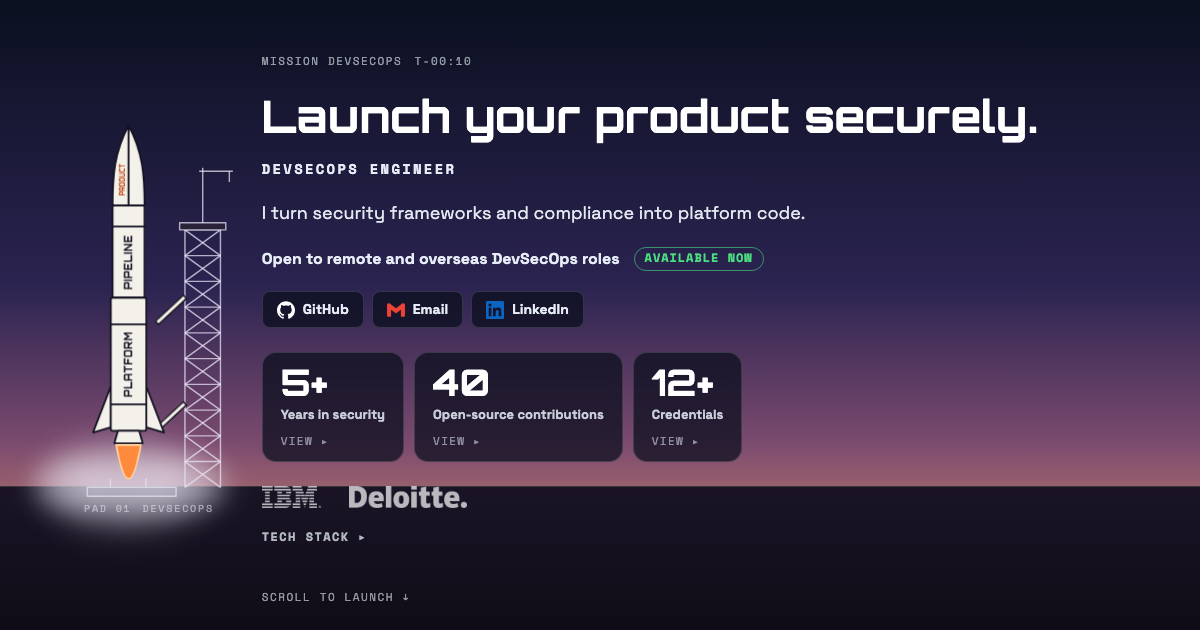
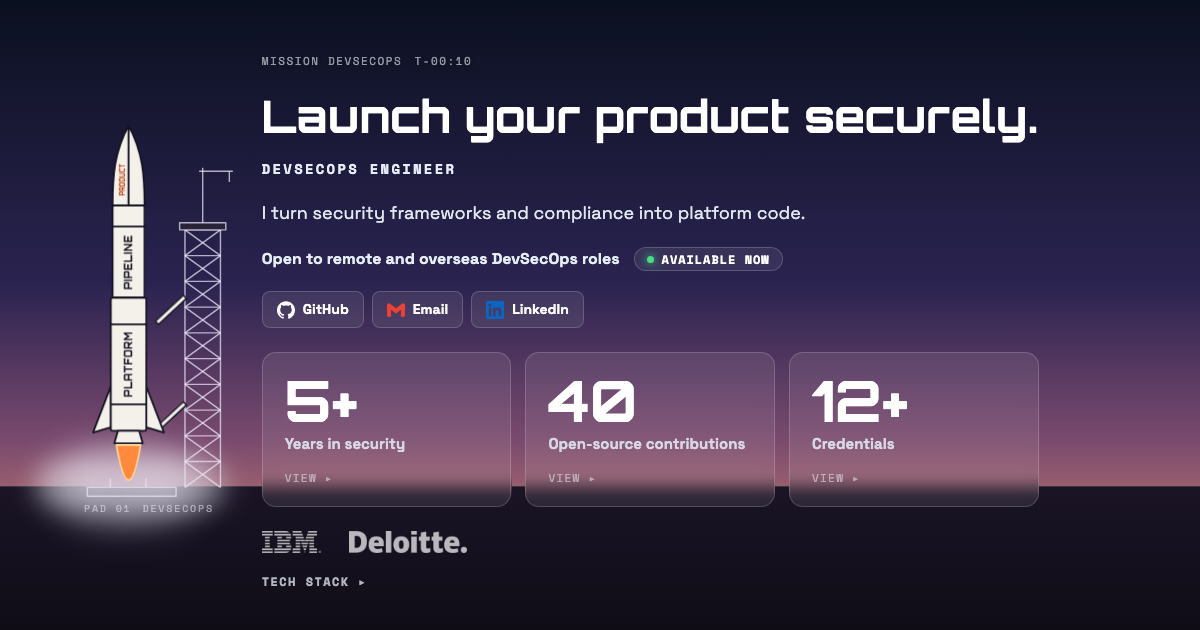
style(launch): hero cards span the headline, frosted-glass look
The stat cards go back to three equal columns ending under the
headline's period. Stat cards and contact buttons become frosted glass
so the dusk sky shows through, and 'Available now' is a glass pill with
a small green dot. og:image retaken.

Claude-Session: https://claude.ai/code/session_011tCtx6HPPMVjdVwgWrdedY

diff --git a/src/styles/launch.css b/src/styles/launch.css
@@ -592,14 +592,28 @@ html[data-bright] .meter a::before {
   color: #e6edf7;
   font-weight: 600;
 }
+/* frosted-glass pill with a small green "online" dot */
 .hero-available {
-  padding: 1px 10px;
-  border: 1px solid rgb(74 222 128 / 0.6);
+  display: inline-flex;
+  align-items: center;
+  gap: 8px;
+  padding: 2px 12px;
+  border: 1px solid rgb(255 255 255 / 0.18);
   border-radius: 999px;
-  color: #4ade80;
+  background: rgb(255 255 255 / 0.08);
+  color: #fff;
   font: 700 12px var(--font-space-mono), monospace;
   letter-spacing: 0.08em;
   text-transform: uppercase;
+  backdrop-filter: blur(8px);
+}
+.hero-available::before {
+  content: "";
+  width: 7px;
+  height: 7px;
+  border-radius: 50%;
+  background: #4ade80;
+  box-shadow: 0 0 8px #4ade80;
 }
 .hero-contact {
   display: flex;
@@ -611,10 +625,10 @@ html[data-bright] .meter a::before {
   align-items: center;
   gap: 8px;
   padding: 7px 14px;
-  border: 1px solid var(--panel-line);
+  border: 1px solid rgb(255 255 255 / 0.18);
   border-radius: 8px;
-  background: var(--panel);
-  color: #e6edf7;
+  background: rgb(255 255 255 / 0.08);
+  color: #fff;
   backdrop-filter: blur(8px);
   font-size: 14px;
   font-weight: 600;
@@ -623,42 +637,31 @@ html[data-bright] .meter a::before {
 }
 .hero-contact-link:hover {
   transform: translateY(-1px);
-  border-color: rgb(255 255 255 / 0.35);
+  border-color: rgb(255 255 255 / 0.4);
+  background: rgb(255 255 255 / 0.12);
 }
 .hero-contact-icon {
   width: 18px;
   height: 18px;
 }
-/* compact: each card only as wide as its number and label */
+/* three equal cards spanning the headline's width */
 .stat-cards.hero-stats {
-  display: flex;
-  flex-wrap: wrap;
-  gap: 10px;
+  grid-template-columns: repeat(3, minmax(0, 1fr));
+  max-width: var(--hero-w);
   margin-top: 4px;
 }
+/* On the dusk sky the hero cards and buttons are frosted glass, so the
+   gradient shows through. */
 .hero-stats .stat-card {
-  padding: 12px 18px;
-}
-.hero-stats .stat-num {
-  font-size: 36px;
-}
-.hero-stats .stat-label {
-  font-size: 13px;
-}
-.hero-stats .stat-open {
-  margin-top: 4px;
-}
-/* On the night sky the hero cards and buttons use the same dark panel as
-   the stage cards, instead of the summary's light cards. */
-.hero-stats .stat-card {
-  border-color: var(--panel-line);
-  background: var(--panel);
+  border-color: rgb(255 255 255 / 0.18);
+  background: rgb(255 255 255 / 0.08);
   color: #fff;
   backdrop-filter: blur(8px);
 }
 .hero-stats .stat-card:hover {
-  border-color: rgb(255 255 255 / 0.35);
-  box-shadow: 0 10px 24px rgb(0 0 0 / 0.35);
+  border-color: rgb(255 255 255 / 0.4);
+  background: rgb(255 255 255 / 0.12);
+  box-shadow: 0 10px 24px rgb(0 0 0 / 0.25);
 }
 .hero-stats .stat-label {
   color: rgb(230 237 247 / 0.85);
@@ -668,8 +671,8 @@ html[data-bright] .meter a::before {
 }
 @media (max-width: 767px) {
   /* narrow column: one compact row per stat */
-  .hero-stats {
-    flex-direction: column;
+  .stat-cards.hero-stats {
+    grid-template-columns: minmax(0, 1fr);
     gap: 6px;
   }
   .hero-stats .stat-card {

diff --git a/docs/portfolio-spec.md b/docs/portfolio-spec.md
@@ -137,7 +137,7 @@ English only.
 | v4 | Portfolio promoted to / (indexed, in the sitemap); the old blog home moves to /blog/ and the blog header, breadcrumbs and back links point there; /launch redirects to / on Vercel with the query kept (?for=lightning-labs still works) |
 | v4.1 | Second review: hero shows one title (DevSecOps / Platform Engineer), the claim, 'Open to remote and overseas ... roles' + Available now, GitHub/Email/LinkedIn (and resume when present) buttons, the stat cards (moved from the summary), IBM and Deloitte logos, and the tech stack behind a toggle; zone labels read plain first (Personal projects / Open source) with the metaphor small; og:image + Twitter card |
 | v4.2 | Review pass: dark hero cards and buttons; phone alert becomes a one-line bar under the HUD; Operate support line matches its cards; career details from the removed field missions folded into Career; unused CSS removed |
-| v4.3 | Compact hero stat cards; summary closes on 'Security controls you can read, run, and prove.' instead of repeating the hero claim; RULES lines removed from stage headings and cards |
+| v4.3 | Hero stat cards span the headline width in frosted glass, 'Available now' is a glass pill with a green dot; summary closes on 'Security controls you can read, run, and prove.' instead of repeating the hero claim; RULES lines removed from stage headings and cards |
 | v2 | Satellite becomes a button that opens the assistant panel (drawer on desktop, sheet on mobile) with reviewed chip answers, a disabled input, privacy note, and "How this assistant is secured"; the summary gets an "Ask the satellite" button |
 | v3 | Live free-form questions (OpenRouter, rate limits, serverless route) |
 | v4 | Promote to `/`, move blog home to `/posts` |
